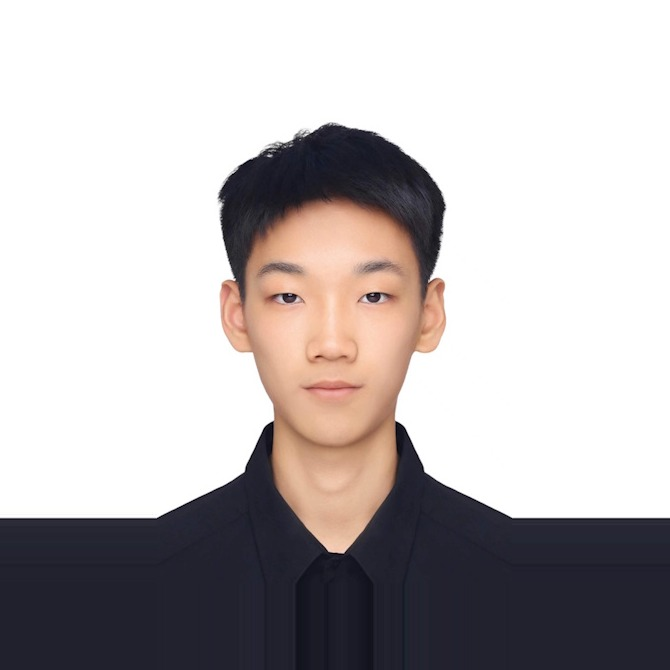
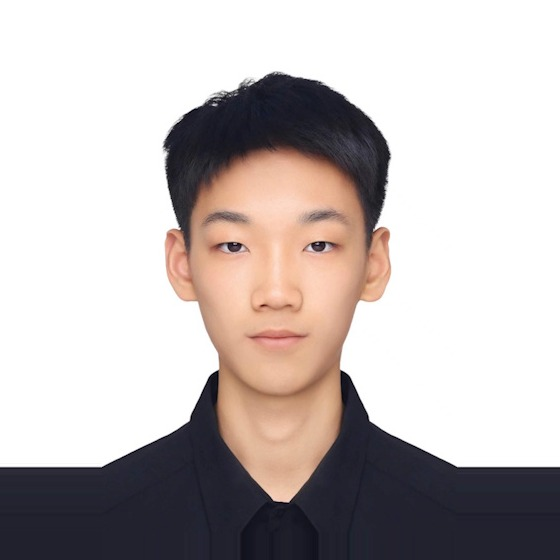
PER-40: enlarge Fuyu Qiu photo, restore Xu Cao's original photo
- Rebuild Fuyu Qiu's square from 670 to 560 px so the head takes ~52% of
  the card instead of ~43%, sitting between Yi Zhong and Yuanzhe Liu.
- Point Xu Cao's card back at the original xucao.jpg from the ICML site.

Changed region(s): [[0.0, 0.1214, 1.0, 0.9107], [0.4857, 0.7589, 0.5161, 0.7893]]

diff --git a/index.html b/index.html
@@ -357,7 +357,7 @@
           <!-- Xu Cao -->
           <div class="col-xl-3 col-lg-4 col-md-6" data-aos="fade-up">
             <div class="member">
-              <img src="assets/img/organizers/Xu_Cao.jpg" class="img-fluid" alt="Xu Cao">
+              <img src="assets/img/organizers/xucao.jpg" class="img-fluid" alt="Xu Cao">
               <div class="member-info">
                 <div class="member-info-content">
                   <h4><a href="https://www.irohxucao.com/" target="_blank" rel="noopener noreferrer">Xu Cao</a></h4>
